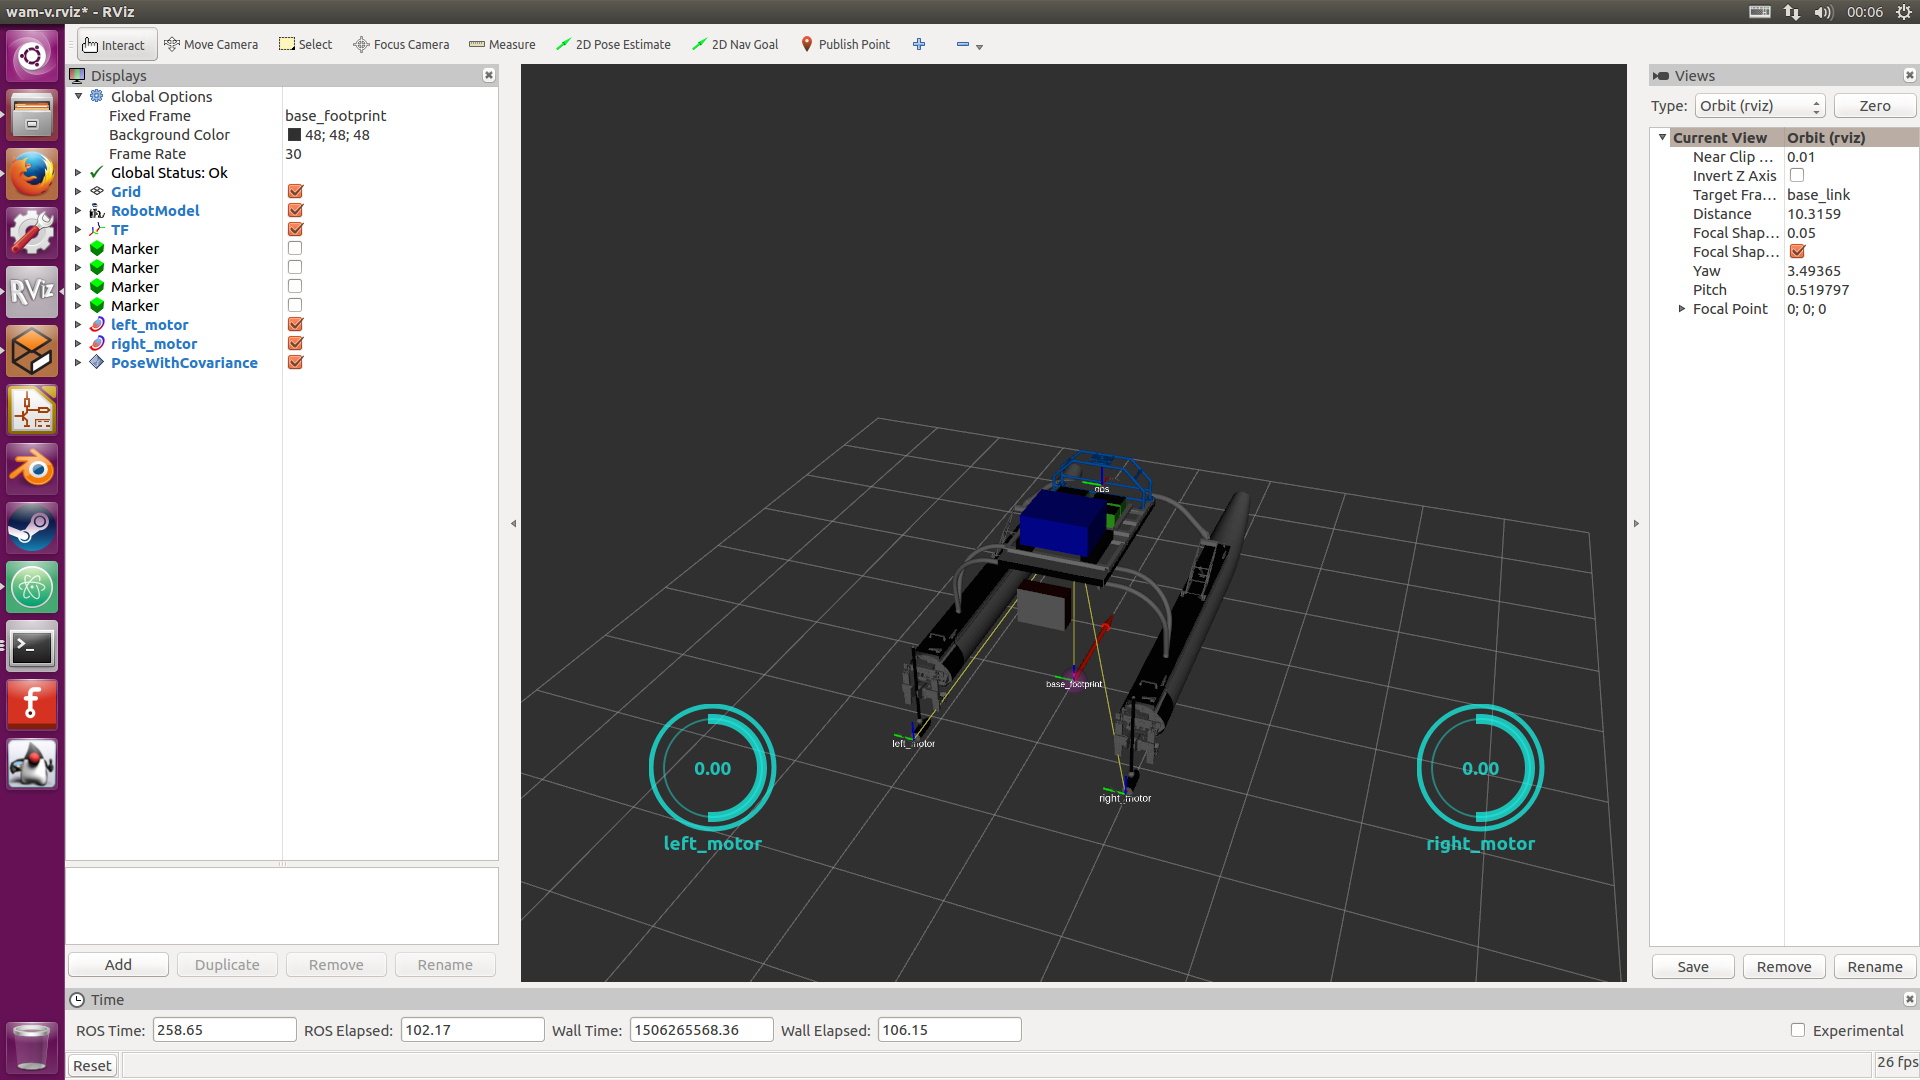
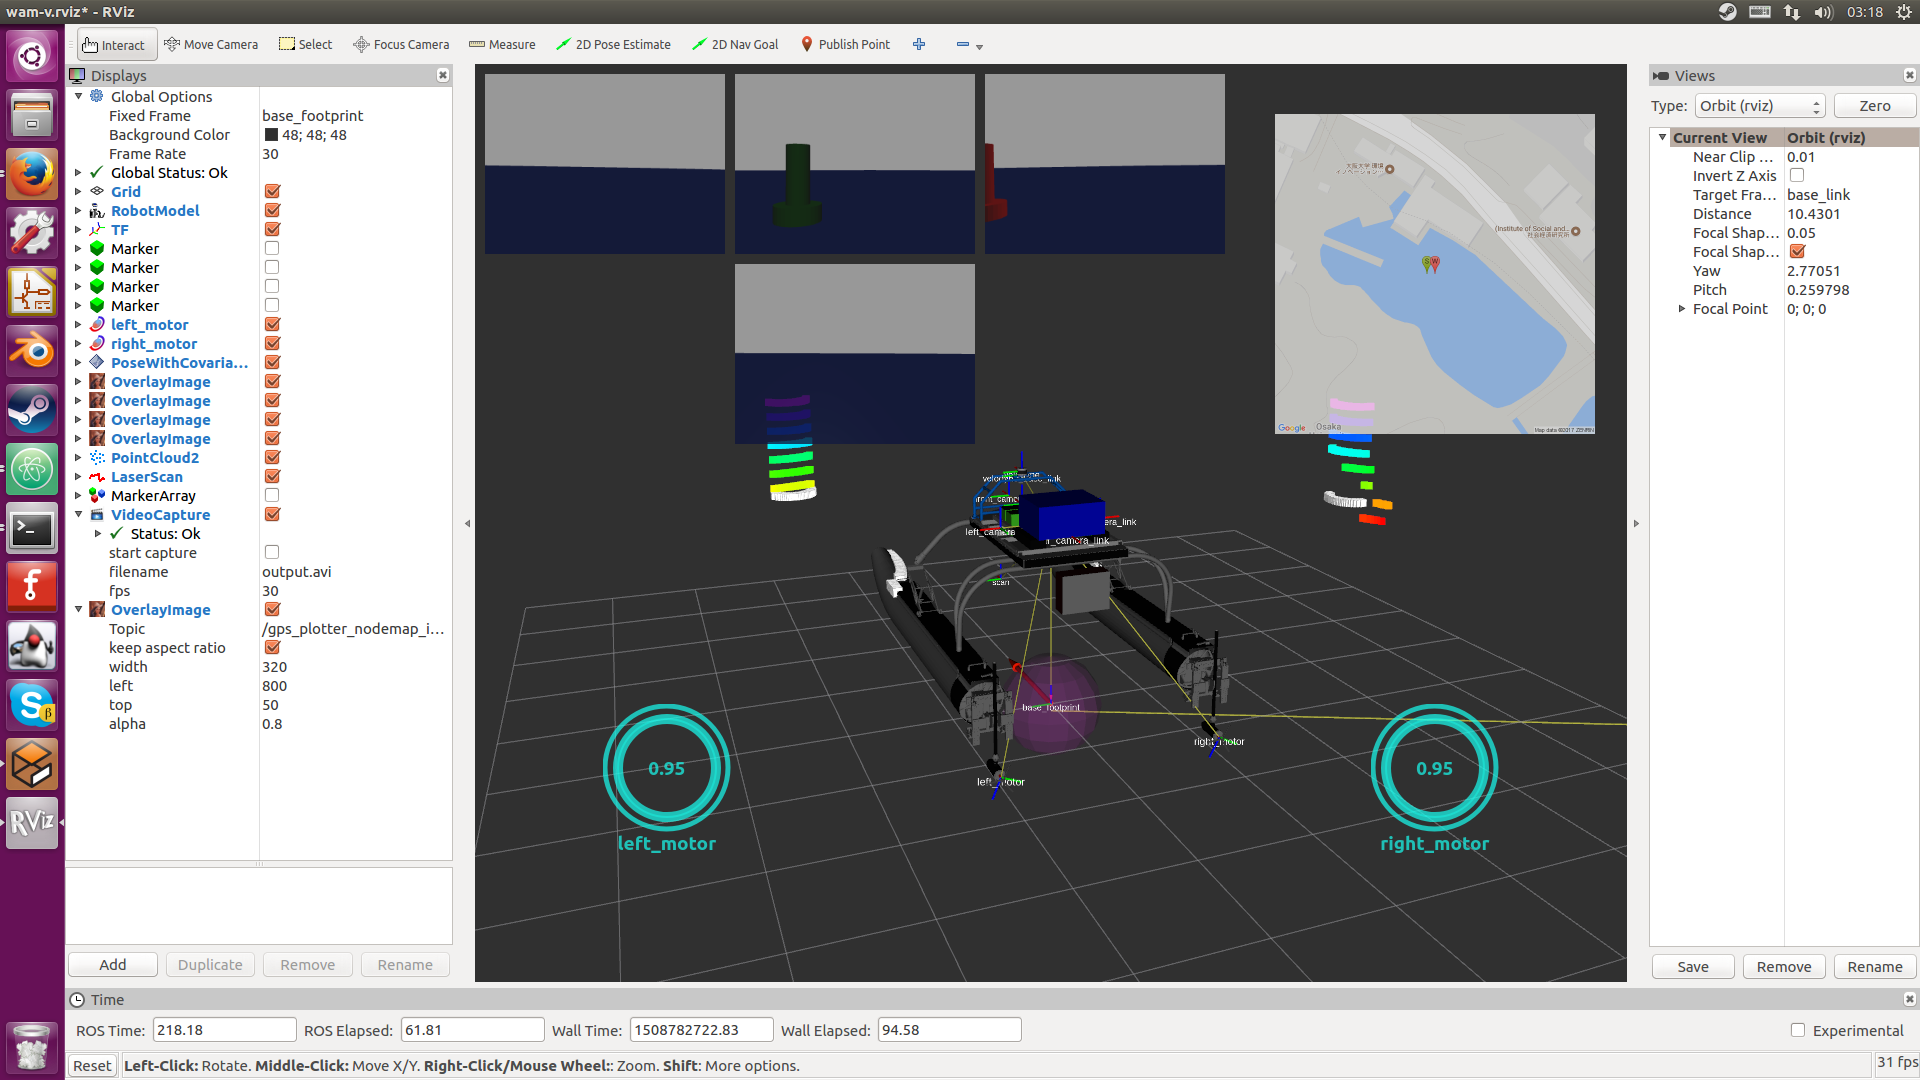
update README.md

diff --git a/README.md b/README.md
@@ -44,6 +44,11 @@ gazebo plugin for broadcast gazebo_world frame.
 #### simple_driving_force_plugin  
 gazebo plugin for calculating driving force from joint speed and ship speed  
 ## ros_ship_visualization  
+#### gps_plotter.py  
+plot gps data from /fix(sensor_msgs/NavSatFix) and publish map image via google static map API  
+S is start point of ship  
+W is current position of WAM-V  
+![visualization in google map](https://github.com/hakuturu583/ros_ship_packages/blob/master/images/map_image.png)     
 #### kml_plotter.py  
 plot gps data from /fix(sensor_msgs/NavSatFix) topic in kml format  
 ![visualize simulated gps data in google earth](https://github.com/hakuturu583/ros_ship_packages/blob/master/images/kml-plotter-node.png)  
